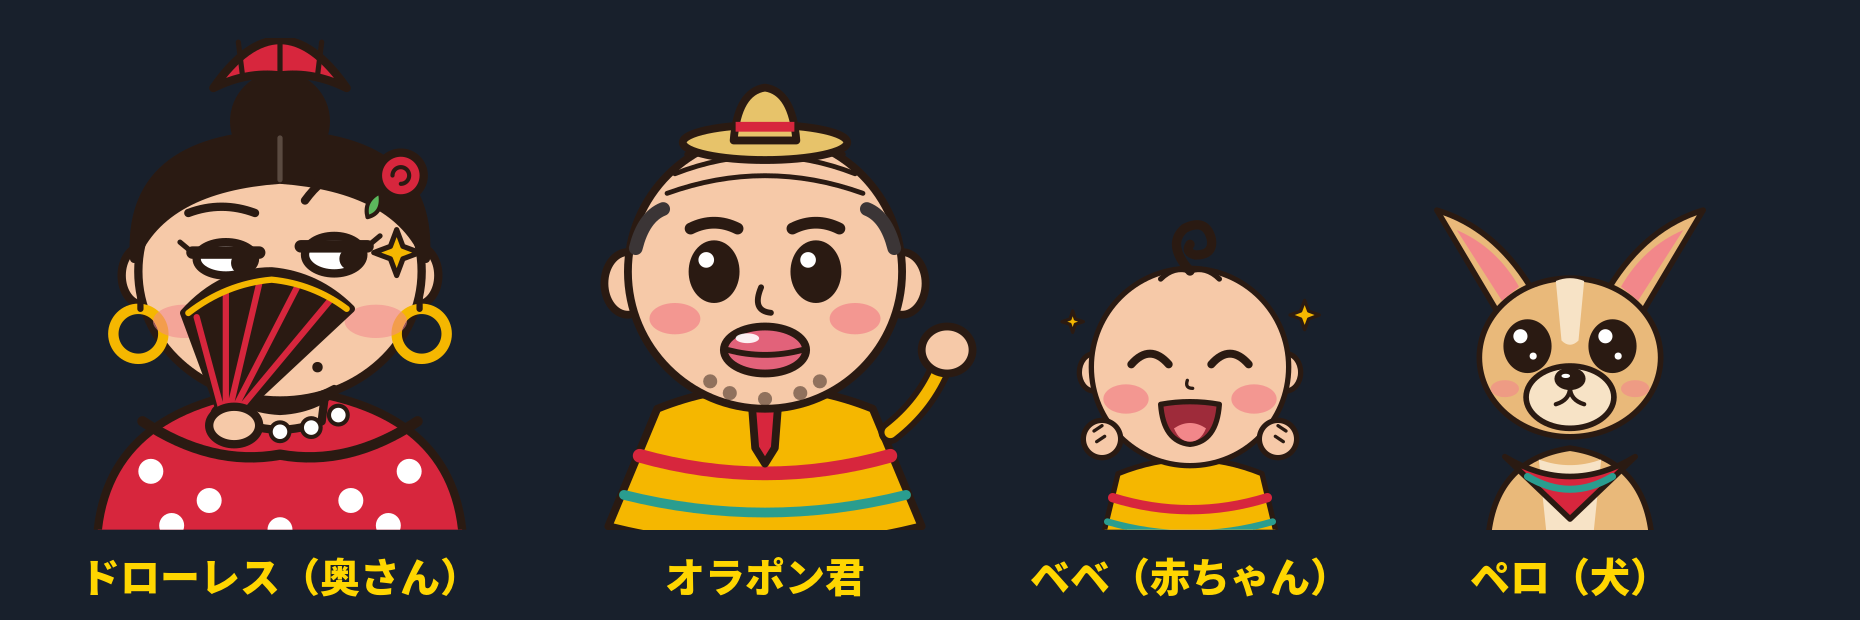
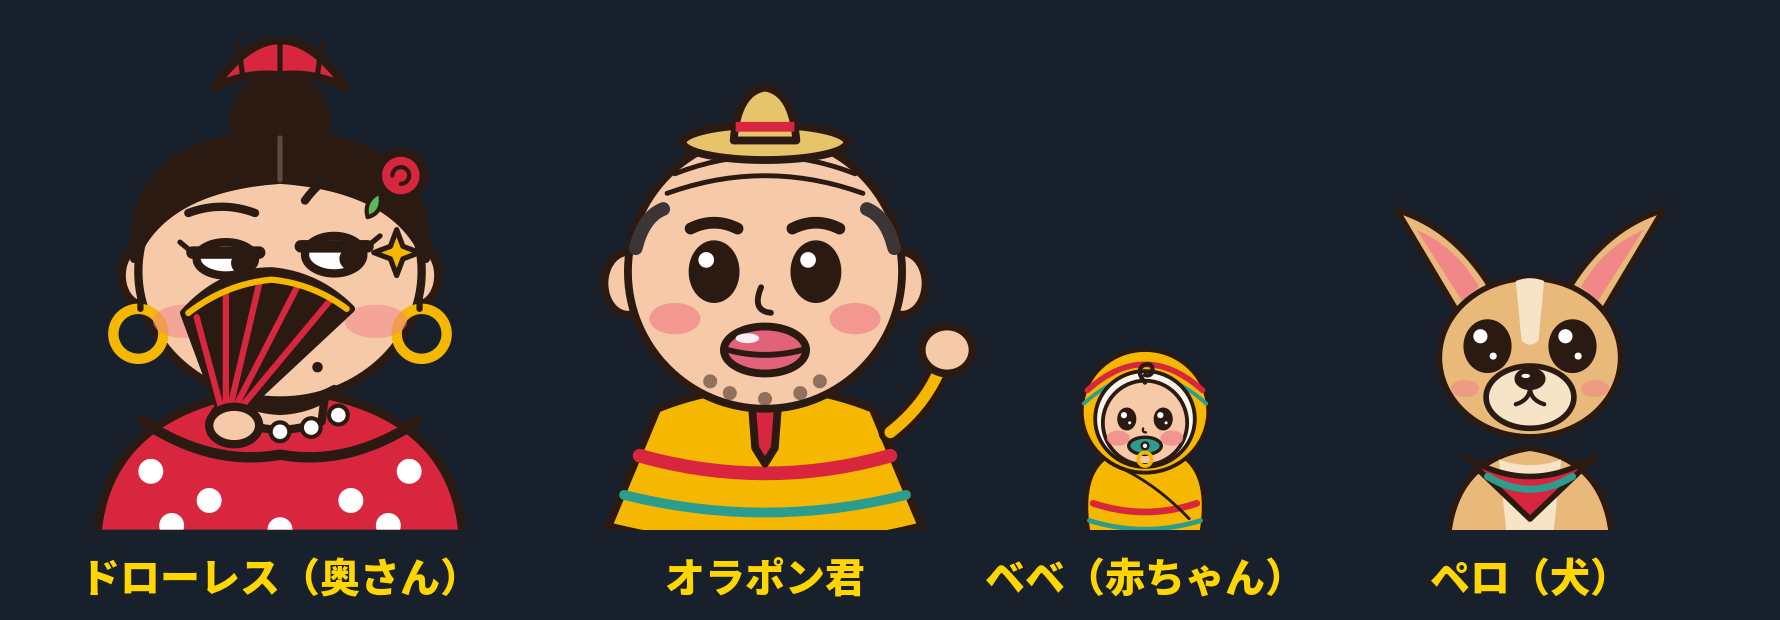
ベベを、おくるみに包まれた小さな赤ちゃんに変更。どの表情でもおしゃぶりをくわえる。ねむりの表情を追加
Claude-Session: https://claude.ai/code/session_012ysKMzomefDzr7a8J75RoB

diff --git a/youtube-spanish/characters/bebe/CHARACTER.md b/youtube-spanish/characters/bebe/CHARACTER.md
@@ -5,19 +5,21 @@
 | 項目 | 内容 |
 |---|---|
 | 名前 | ベベ（スペイン語の *bebé*＝赤ちゃん。名前そのものが単語の勉強になる） |
-| 見た目 | 大きな丸い顔、うるうるの大きな目、まっかなほっぺ。ママ（ドローレス）ゆずりの黒髪の大きなくるりん1本、パパ（オラポン君）ゆずりのポンチョ柄のよだれかけ |
-| 持ち物 | おしゃぶり（スペイン語で *chupete*） |
+| 見た目 | 生まれたばかりの小さな赤ちゃん。パパ（オラポン君）のポンチョ柄のおくるみに、頭までくるまれている。小さな顔、ちいさな目、まっかなほっぺ。おくるみからママ（ドローレス）ゆずりの黒髪のくるりんがのぞく |
+| 持ち物 | おしゃぶり（スペイン語で *chupete*）。**どの表情でも必ずくわえている** |
 | 性格（案） | まだしゃべれないが、スペイン語の正解がわかる（？）。パパが正解すると笑い、間違えると泣く。意地悪なママも、ベベにだけは甘い |
 
 ## 表情（expressions/）
 | ファイル | 表情 | 使う場面の例 |
 |---|---|---|
-| 01_normal | 通常（おしゃぶりをくわえて、うるうるの目） | ふだん |
-| 02_warai | 笑い（目を細めて大きく口を開け、小さなこぶし、キラキラ） | パパが正解したとき |
-| 03_naki | 泣き（目をぎゅっとつぶって大泣き、涙） | パパが間違えたとき、ママが怒ったとき |
+| 01_normal | 通常（ちいさなうるうるの目） | ふだん |
+| 02_warai | 笑い（目を細めてにっこり、ハートとキラキラ） | パパが正解したとき |
+| 03_naki | 泣き（目をぎゅっとつぶって、おしゃぶりをくわえたまま泣く） | パパが間違えたとき、ママが怒ったとき |
+| 04_nemuri | ねむり（すやすや、Zzz） | 場面の切り替え、動画の最後など |
 
 ## 素材の決まり
 - 他のキャラクターと同じ：SVG・背景透過・viewBox "30 28 240 236"・書き出し 960x944・線 #2A1A12・太さ4
-- 色：肌 #F6C9A8 / ほっぺ #F2878A / 髪 #2A1A12 / よだれかけ #F5B700（しま #D7263D・#2A9D8F）/ おしゃぶり #2A9D8F・#F5B700
+- 色：肌 #F6C9A8 / ほっぺ #F2878A / 髪 #2A1A12 / おくるみ #F5B700（しま #D7263D・#2A9D8F、内側 #FBF6EC）/ おしゃぶり #2A9D8F・#F5B700
+- 他のキャラクターと並べるときは、小さめ（オラポン君の半分くらい）に置く
 - 口パク用の素材はまだない
 - まだ清書前のラフ

diff --git a/youtube-spanish/characters/olapon/CHARACTER.md b/youtube-spanish/characters/olapon/CHARACTER.md
@@ -17,7 +17,7 @@
 ![家族](../family.png)
 
 - 奥さん：ドローレス（意地悪。`../dolores/CHARACTER.md`）
-- 赤ちゃん：ベベ（ママゆずりの髪のくるりん、パパゆずりのポンチョ柄。`../bebe/CHARACTER.md`）
+- 赤ちゃん：ベベ（生まれたばかり。ポンチョ柄のおくるみ、いつもおしゃぶり。`../bebe/CHARACTER.md`）
 - 犬：ペロ（臆病なチワワ。`../pero/CHARACTER.md`）
 - 車：`../car/`（ソンブレロをかぶった黄色いコミカルな車。走る・故障の2種類）
 - 家と庭の背景：`../scenes/`（スペイン・メキシコ風の家、表札「Casa de Olapón」、ペロの犬小屋）
